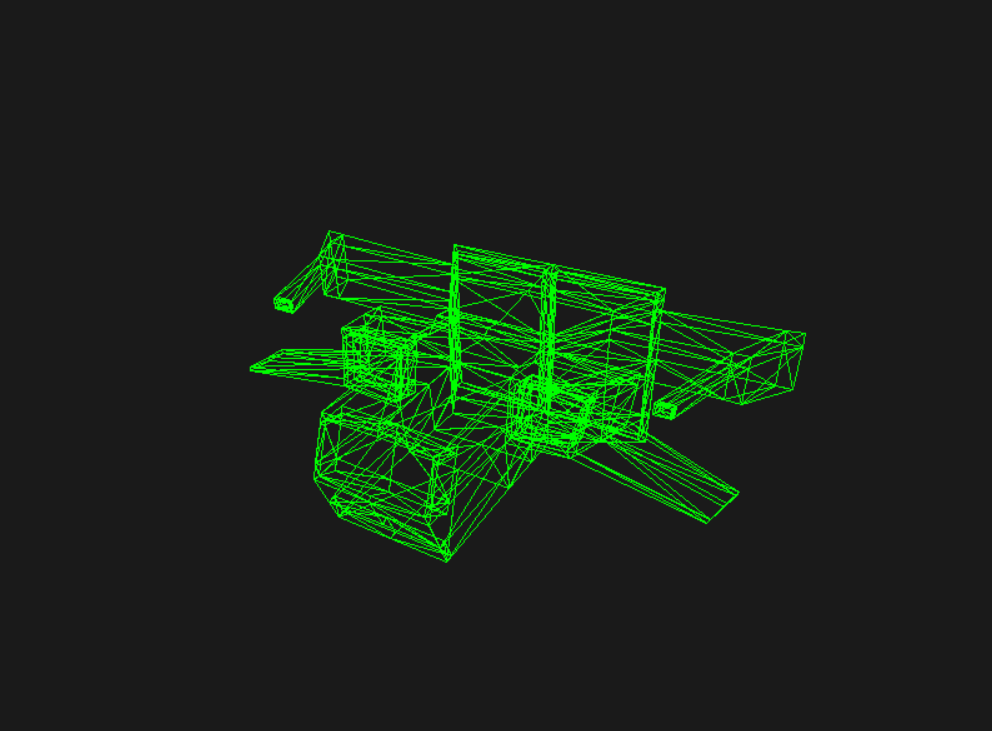
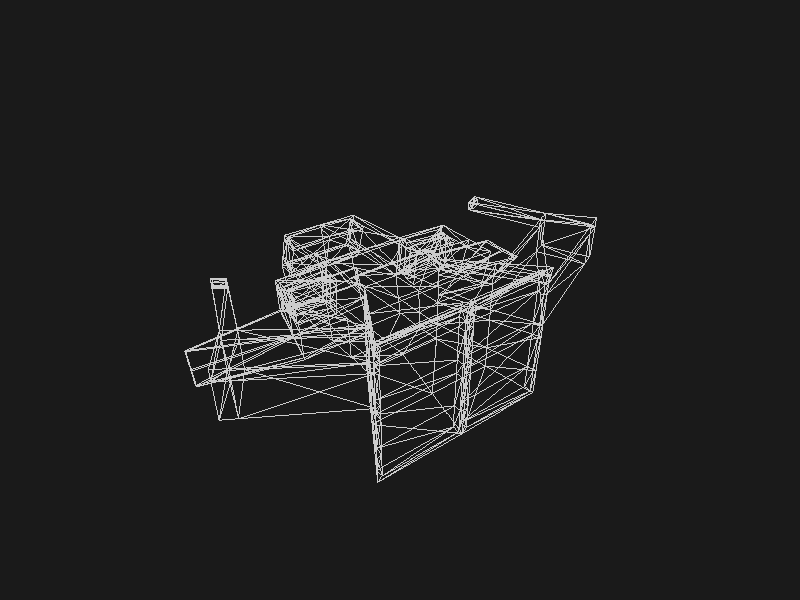
docs: actualizar README con capturas de ambos modos

Changed region(s): [[0.2188, 0.3, 0.8125, 0.81]]

diff --git a/README.md b/README.md
@@ -1,81 +1,70 @@
 # Lab 6 - Carga de Modelo OBJ
 
-Renderizador de modelos 3D en OBJ escrito en Rust. Soporta dos modos de visualización:
+Renderizador de una nave OBJ escrito en Rust con minifb. Incluye rotación automática y manual, y dos modos de visualización:
 
-- **Esqueleto**: dibuja únicamente las aristas de cada triángulo (alambrado).
-- **Pintado**: rellena cada triángulo con un color celeste agrisado (`Light Sky Blue`).
+- **Esqueleto**: dibuja las aristas de todos los triángulos, incluidas las posteriores.
+- **Pintado**: rellena las superficies con el color difuso del material MTL y aplica iluminación por cara. Un Z-buffer resuelve la visibilidad. Sin material se utiliza el color base `0x87CEEB`.
+
+## Capturas del visor
+
+Capturas reales del área de dibujo de minifb, a 800 × 600 píxeles. Ambas muestran la misma orientación manual: rotación de 0.55 radianes en X y 0.65 radianes en Y. Para fijar esta vista durante la captura se ajustaron temporalmente los valores iniciales; el programa conserva su inicio habitual en modo automático y esqueleto.
+
+### Modo esqueleto
+
+Permite inspeccionar la triangulación y las aristas de la nave.
+
+![Nave completa en modo esqueleto, vista oblicua](assets/Imagen_Esqueleto.png)
+
+### Modo pintado
+
+Muestra las superficies visibles con el material gris del modelo y la iluminación por cara.
+
+![Nave completa en modo pintado, desde el mismo ángulo](assets/Imagen_Pintado.png)
 
 ## Controles
 
 | Tecla | Acción |
 |-------|--------|
-| `ESPACIO` | Cambiar entre modo automático y manual de rotación |
-| `T` | Cambiar entre modo Esqueleto y modo Pintado |
-| `←` / `→` | Rotar en Y (modo manual) |
-| `↑` / `↓` | Rotar en X (modo manual) |
+| `ESPACIO` | Cambiar entre rotación automática y manual |
+| `T` | Cambiar entre esqueleto y pintado |
+| `←` / `→` | Rotar en Y en modo manual |
+| `↑` / `↓` | Rotar en X en modo manual |
 | `ESC` | Salir |
 
-## Cómo compilar y ejecutar
+## Compilar y ejecutar
+
+Ejecuta los comandos desde la raíz del proyecto para resolver las rutas de `assets/`.
 
 ```bash
-cargo build       # Compila en modo debug
-cargo run         # Ejecuta el programa
-cargo run --release  # Ejecuta en modo optimizado
+cargo build
+cargo run
+cargo run --release
 ```
 
-## Repositorio
+## Visibilidad y materiales
 
-El código fuente completo está disponible en:
+El relleno comparte un Z-buffer entre todas las caras y lo limpia cada fotograma. Con la cámara en `z = 5`, interpola baricéntricamente `1 / (5 - z)` en pantalla: el valor mayor corresponde a la superficie más cercana. Recorta contra una distancia cercana de `0.1` antes de proyectar y limita la rasterización a la ventana. Omite los triángulos degenerados o no finitos.
 
-🔗 https://github.com/MagicBag-tab/lab_6_carga_de_modelo
+El OBJ incluido contiene 730 vértices y 1512 caras, todas triangulares. Hay 756 copias geométricas exactas; el cargador conserva una por material, incluso si la copia usa otros índices u otro orden. El archivo OBJ original se conserva.
 
-## Modelo renderizado
+`assets/nave_1.mtl` define un solo material gris (`Kd 0.8 0.8 0.8`), por lo que este modelo no contiene colores distintos por pieza. El cargador conserva `usemtl` por cara; la iluminación es independiente de la selección de color y del índice del triángulo.
 
-A continuación se muestra el modelo (`assets/nave_1.obj`) renderizado en modo **Esqueleto**, centrado en pantalla (aproximadamente el 75% del ancho de la ventana):
+La inspección geométrica detectó 128 caras de área prácticamente nula en el archivo original, incluidas sus copias, 32 aristas con seis incidencias y 32 aristas de dos incidencias con orientación inconsistente. No se reparó la topología del modelo. Se mantienen ambas orientaciones visibles, sin backface culling.
 
-![Modelo renderizado en modo Esqueleto](assets/Imagen_Esqueleto.png)
+El cargador requiere OBJ triangulados y devuelve un error ante otros polígonos, en lugar de crear abanicos incorrectos sobre caras cóncavas.
 
-## Características implementadas
-
-- Parser de archivos OBJ (vértices y caras)
-- Proyección 3D a 2D con matriz de rotación en X y Y
-- Rasterización de triángulos con edge functions (funciones de borde)
-- Dos modos de visualización toggleables en tiempo real
-- Título de ventana dinámico que muestra el modo actual (`[AUTO/MANUAL][ESQUELETO/PINTADO]`)
-
-## Correcci?n de visibilidad
-
-El relleno comparte un Z-buffer entre todas las caras y lo limpia cada fotograma.
-Con la c?mara en `z = 5`, interpola baric?ntricamente `1 / (5 - z)` en pantalla;
-el valor mayor corresponde a la superficie m?s cercana. Recorta contra una
-distancia cercana de `0.1` antes de proyectar y limita el recorrido a la ventana.
-Los tri?ngulos degenerados o no finitos se omiten.
-
-El OBJ incluido tiene 730 v?rtices y 1512 caras, todas triangulares. Hay 756
-copias geom?tricas exactas; el cargador conserva una por material, incluso si
-la copia usa otros ?ndices u otro orden. El archivo original se conserva.
-El MTL original estaba en el directorio superior: se incluye ahora en `assets/`
-para resolver `mtllib nave_1.mtl`. Define un solo material gris (`Kd 0.8 0.8 0.8`),
-por lo que este modelo no contiene colores distintos por pieza. `usemtl` se
-conserva por cara y la iluminaci?n no depende del ?ndice del tri?ngulo.
-La inspecci?n tambi?n detect? 128 caras de ?rea pr?cticamente nula en el archivo
-original (incluidas sus copias), 32 aristas con seis incidencias y 32 aristas
-de dos incidencias con orientaci?n inconsistente. No se repar? la topolog?a
-del asset. Se mantienen ambas orientaciones visibles, sin backface culling.
-El cargador requiere OBJ triangulados y devuelve un error ante otros pol?gonos,
-en lugar de crear abanicos incorrectos sobre caras c?ncavas.
-
-Validaci?n reproducible:
+## Verificación
 
 ```bash
 cargo fmt --check
 cargo check
 cargo test
-cargo run --release
 ```
 
-Las pruebas cubren profundidad en perspectiva, independencia del orden de dibujo,
-ambos ?rdenes de v?rtices, recorte cercano, degenerados, caras fuera de pantalla,
-buffers inv?lidos, materiales, ?ndices OBJ negativos y cuatro rotaciones de la
-nave. Para comprobar visualmente: pulsa `T`, cambia a manual con `ESPACIO` y usa
-las flechas para observar el frente, los lados y la parte posterior.
+Las pruebas cubren profundidad en perspectiva, independencia del orden de dibujo, ambos órdenes de vértices, recorte cercano, degenerados, caras fuera de pantalla, buffers inválidos, materiales, índices OBJ negativos y cuatro rotaciones de la nave.
+
+Para comprobar visualmente el resultado, ejecuta el visor, pulsa `T`, cambia a manual con `ESPACIO` y usa las flechas para observar el frente, los lados y la parte posterior.
+
+## Repositorio
+
+[Código fuente en GitHub](https://github.com/MagicBag-tab/lab_6_carga_de_modelo)
